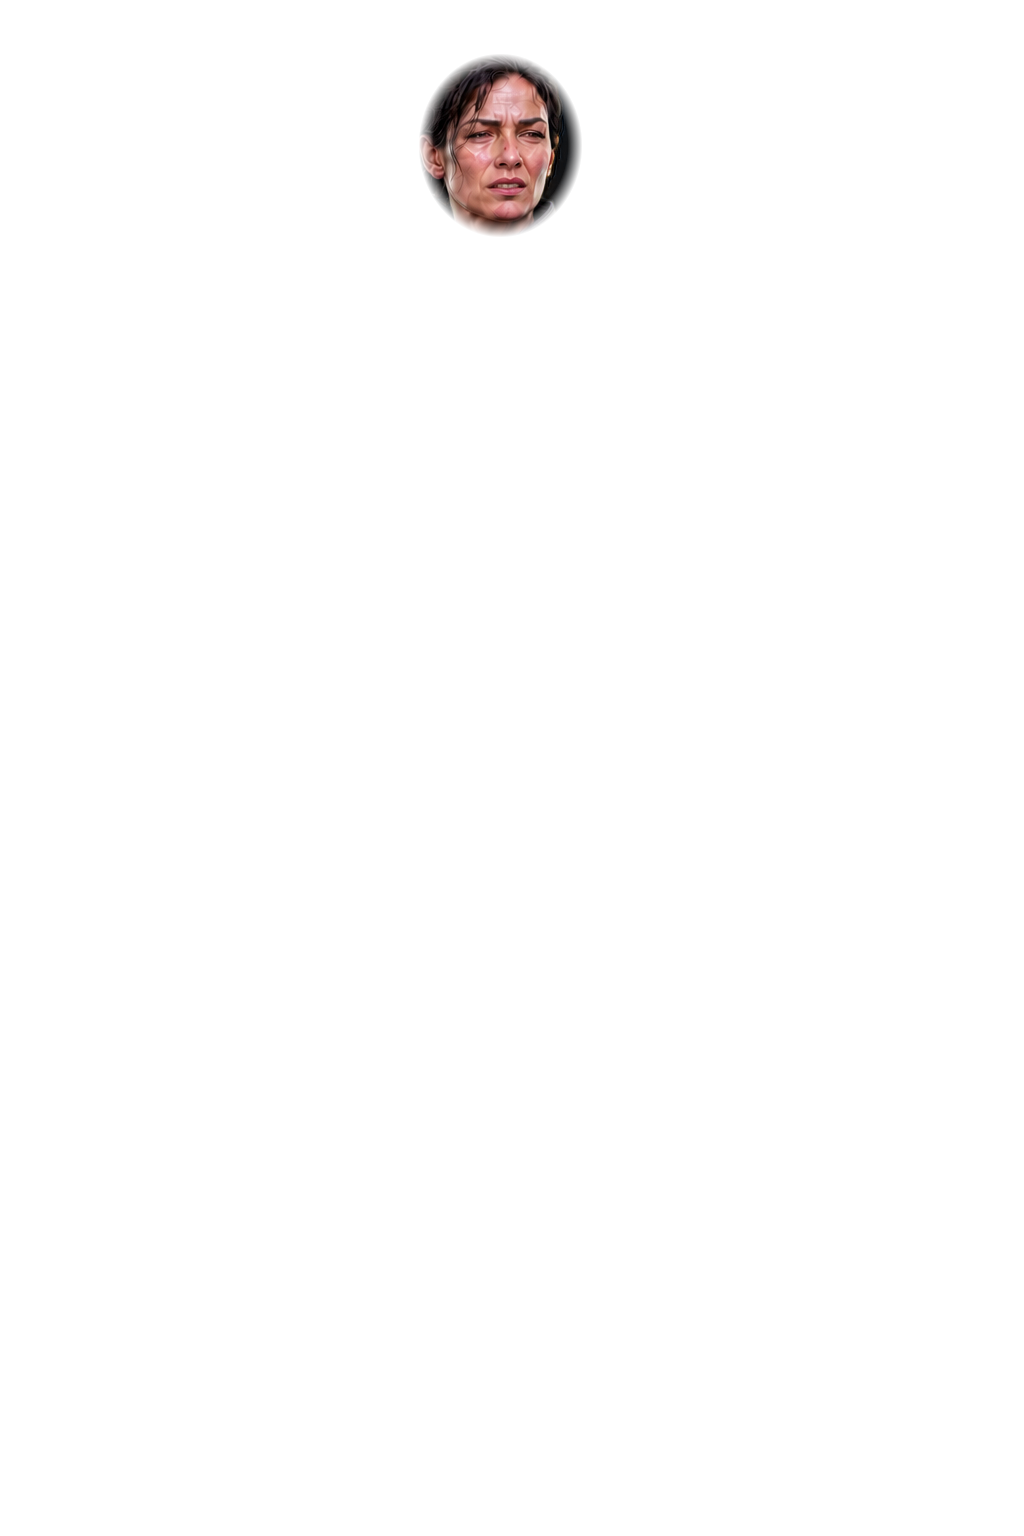
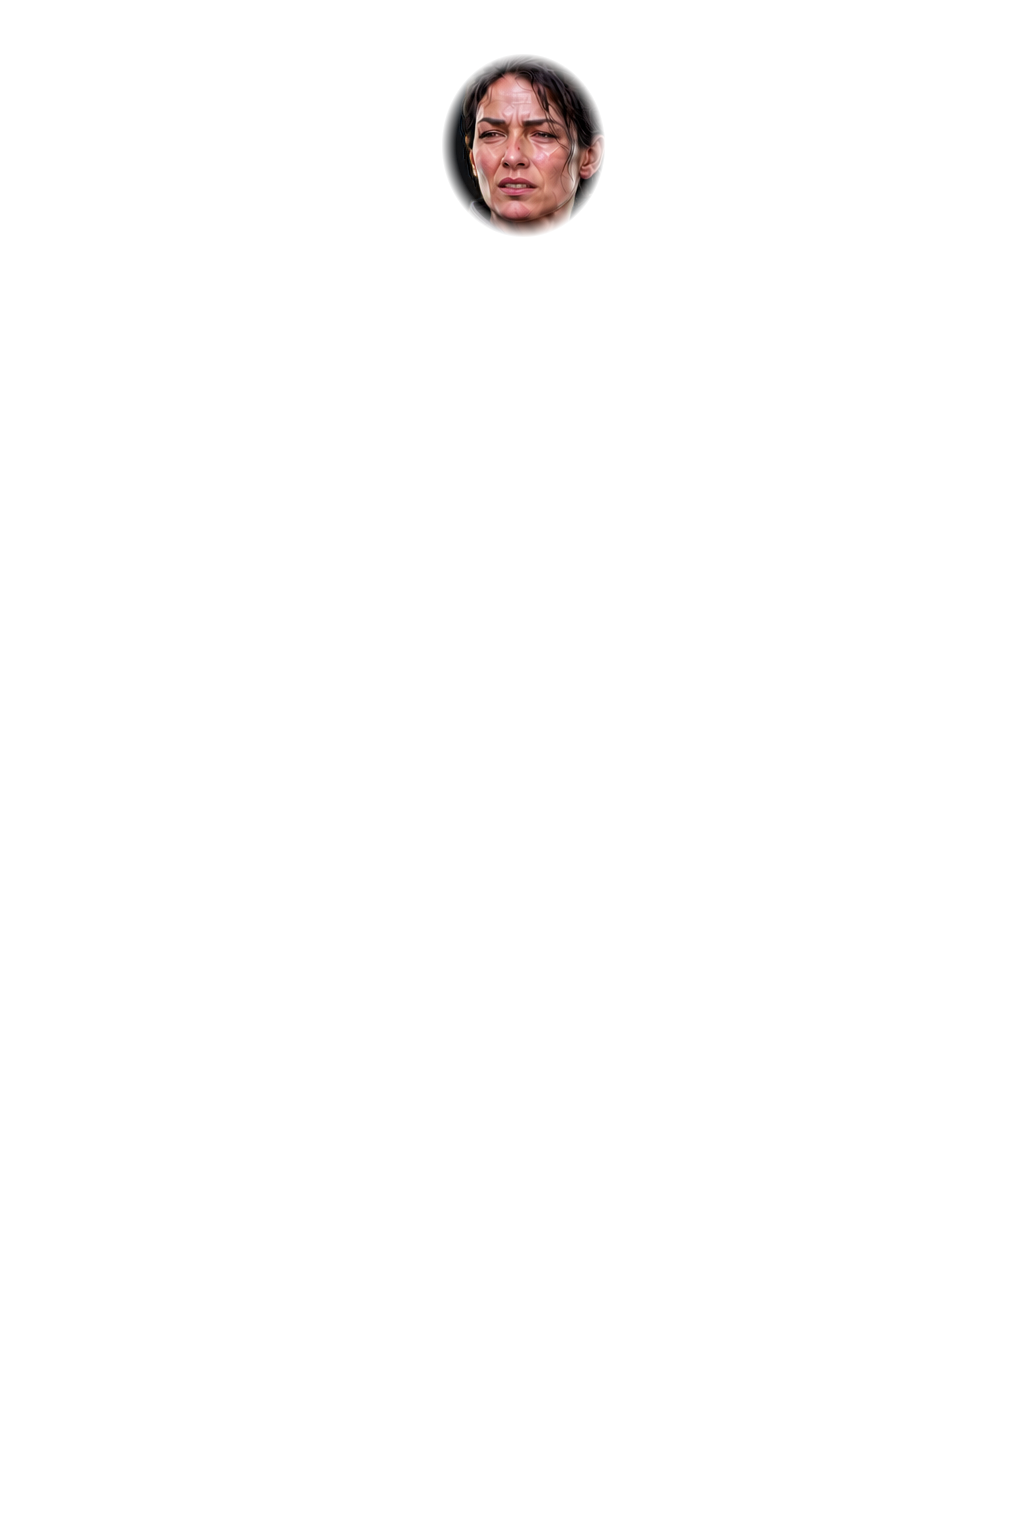
Mirror Vera character art

Changed region(s): [[0.4062, 0.0312, 0.5938, 0.1562]]

diff --git a/Docs/AI/CoordinationRuntime/HANDOFF.md b/Docs/AI/CoordinationRuntime/HANDOFF.md
@@ -6,13 +6,13 @@
 
 ## Ready for integration or validation
 
-- `android-remote-hosting`: production Android catalog/TZM/ZDM/GPL опубликованы
-  в `https://pureshechka.com/dev`; manifest-only дерево (110 файлов, 356 MiB)
-  прошло локальную SHA-256 и удалённую `rsync -acn --delete` сверки. По явному
-  подтверждению прежний `/dev` полностью заменён без server-side rollback.
-  Remote development APK (62,585,612 bytes) доступен как `Novels-remote.apk` в
-  `/DevBuilds`; HTTPS 200. Android smoke passed с `app.started`,
-  `catalog.loading`, `catalog.ready`; app force-stopped, AVD оставлен.
+- `gpl-vera-horizontal-flip`: все 9 исходных PNG Веры отражены горизонтально
+  без runtime-правок: master, две одежды, три эмоции и три цельные позы.
+  Холсты остались 1024×1536 RGBA, `.meta` и адреса не менялись; точная сверка
+  каждого результата с отражённым `HEAD`-источником passed 9/9. Визуально
+  взгляд и жесты теперь направлены внутрь кадра при правом размещении.
+  `novels-content validate gpl` и `build gpl editor` passed; LocalContent
+  обновлён. Нужен только игровой visual smoke при следующем запуске Novels.
 - `free-wardrobe-equipped-index`: свободная категория теперь открывается на
   фактически equipped значении из save, поэтому подпись compact carousel сразу
   соответствует волосам/одежде персонажа. Initial preview остаётся выключен:

diff --git a/Docs/AI/CoordinationRuntime/agents/gpl-vera-horizontal-flip.md b/Docs/AI/CoordinationRuntime/agents/gpl-vera-horizontal-flip.md
@@ -1,0 +1,13 @@
+# Agent: gpl-vera-horizontal-flip
+
+- Status: completed
+- Task: детерминированно отразить по горизонтали все исходные PNG Веры без изменений runtime-кода.
+- Scope: `Projects/novels-gpl/Assets/Characters/вера/**/*.png`, собственные coordination records и `HANDOFF.md`.
+- Expected change: одинаковый horizontal flip мастера, эмоций, одежды и цельных сюжетных поз на неизменных холстах; `.meta`, адреса и alpha сохраняются.
+- Base commit: `d521c0bff9db67501178ec7e938601c97eb5e620`.
+- Validation: перечень PNG до/после, размеры/режим/alpha, двойное отражение даёт исходные пиксели, контактный лист, GPL validate/build по доступности Unity-очереди.
+- Started UTC: 2026-08-30T21:22:37Z
+- Lock acquired UTC: 2026-08-30T21:23:50Z.
+- Progress: all 9 Vera PNGs flipped; exact comparison against horizontally flipped `HEAD` sources passed 9/9; every output remains 1024x1536 with alpha.
+- Result: source master, two clothing layers, three facial emotions and three whole-pose variants are horizontally mirrored without runtime changes; `.meta` and addresses unchanged.
+- Validation: deterministic pixel/encoding comparison passed 9/9; GPL validate and editor build passed; composed local content refreshed.
